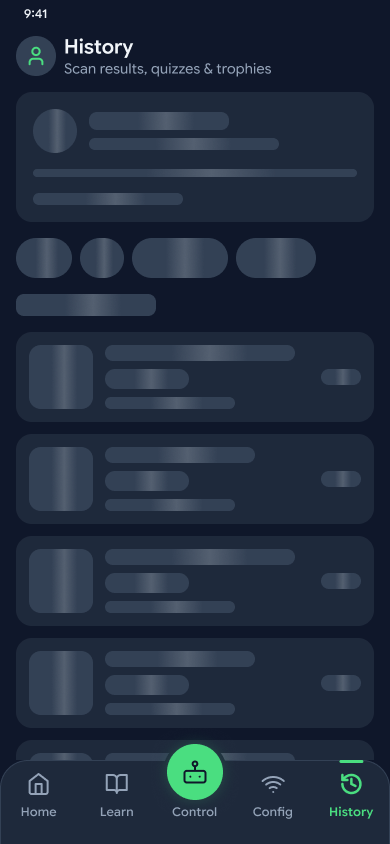
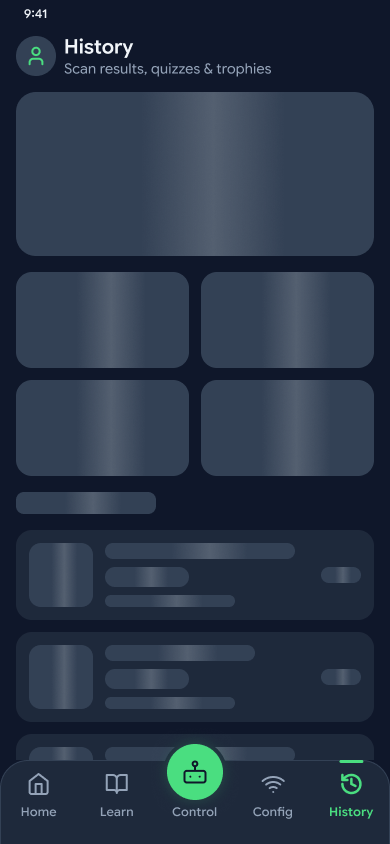
docs(design): H3 list and detail redesign (hero, tiles, stats, tabs)
Replaces the trophy summary card, filter chips and score card in the
reference images and spec with the new joyful layout.

Claude-Session: https://claude.ai/code/session_01E7CoGBaVaXvV2kEKkvcAQW

diff --git a/docs/design/h3-figma/README.md b/docs/design/h3-figma/README.md
@@ -1,15 +1,16 @@
 # H3 History: Figma reference (source of truth for the UI)
 
-Figma file `J2jSbARJSyJCStNFeWkWDj`, page "H3 History screen" (`433:2358`), exported 5 Nov 2026 at 1x
+Figma file `J2jSbARJSyJCStNFeWkWDj`, page "H3 History screen" (`433:2358`), exported 5 Nov 2026 at 1x (list and detail redesigned 14:00: trophy hero, category tiles,
+result stats, difficulty tabs)
 (390 px wide = 390 dp). Phone screenshots taken at the same dp width must match these images.
 Figma copy is English; the app shows the Indonesian strings from decision 0184.
 
 | File | Figma node (light / dark) |
 | --- | --- |
-| 01 History list | 435:2395 / 436:2987 |
-| 02 Scan detail | 435:2581 / 436:3170 |
-| 03 Loading list | 435:2781 / 436:3370 |
-| 04 Loading detail | 435:2936 / 436:3525 |
+| 01 History list | 435:2395 / 454:4480 |
+| 02 Scan detail | 435:2581 / 454:4505 |
+| 03 Loading list | 435:2781 / 454:4525 |
+| 04 Loading detail | 435:2936 / 454:4576 |
 | 05 Empty | 435:3060 / 436:3649 |
 | 06 Explanation | 439:3603 / 439:4238 |
 | 07 Explanation, reading aloud | 439:3764 / 439:4323 |
@@ -39,26 +40,48 @@ Figma copy is English; the app shows the Indonesian strings from decision 0184.
   The explanation screen has no bottom nav; it has the actions bar instead.
 
 ## Components (dp; r = corner radius; colours are ELIOS token names)
-- **Trophy summary** 358 wide, pad 16, gap 16, r16, `surface` + 1 px `border/subtle`.
-  Header row gap 12: badge 44 circle (`chip/warning-bg`, `chip/warning-border`, trophy 24 `warning/text`),
-  text column gap 2 (count Subhead `text/primary`, level Caption `text/secondary`).
-  Progress track 8 high, r full, `raised`, fill `primary/fill`.
-  Footer row space-between: "x trophies to Level n" Caption `text/secondary` + chip "Tersimpan lokal".
+- **Trophy hero** (replaces the old trophy summary card) 358x164, pad 18/20/20/20, gap 4, r20, `primary/fill`,
+  clips its content. A circle 190 `primary/fill-hover` sits behind the top-right corner (x 210, y -40).
+  Top row gap 8: "TROFI KAMU" Overline `primary/on-fill` at 72 % layer opacity + "Tersimpan lokal" pill
+  (pad 2/8/2/6, r full, `primary/fill-hover`, check 12 + Caption `primary/on-fill`).
+  Count row: total Display + "trofi" Body, both `primary/on-fill`, gap 6, baseline aligned.
+  Level line Body Small `primary/on-fill`; 8 spacer; progress 190x8 r full, track `primary/fill-hover`,
+  fill `primary/on-fill`; "x trofi lagi ke Level n" Caption `primary/on-fill` at 72 %.
+  Level art bottom-right (x 226, y 34, 120x124): Eco tree Lv3 art; use Eco sprout Lv1 art at low levels
+  (Figma components "Home art/Eco tree Lv3" 332:4411 and "Home art/Eco sprout Lv1" 332:4427).
+  Same colours in dark mode (the green block stays green).
+- **Category tiles** (replace the filter chips): 2x2 grid, gap 12, tiles fill the width (2 per row), 96 high,
+  pad 12/12/12/14, gap 2, r16, clipped. Label Body `text/primary`, count "n scan" Caption `text/secondary`.
+  Bin buddy art 52x62 at the bottom-right, partly cut by the tile edge (x = width-59, y 44):
+  B3 = "Bin buddy B3" 332:4480, Daur ulang = "Bin buddy Anorganik" 332:4466, Organik = "Bin buddy Organik" 332:4452;
+  "Semua" shows the three bins overlapping (36-40 wide). Default = `surface` + 1 px `border/subtle`.
+  Selected = `chip/success-bg` + 2 px `primary/fill`, count in `primary/text`, a 20 dp `primary/fill` circle
+  with a check 14 `primary/on-fill` at the top-right, and the art tilted 8 degrees. Tapping a tile filters the list.
+- **Day groups** in the list: "HARI INI", "KEMARIN", then a date ("3 NOV"). Overline `text/tertiary`,
+  12 above the first row of the group, groups 20 apart.
 - **Chip** (status) height 24, pad 2/8, gap 4, r full, tint bg + 1 px tint border, icon 14, text Caption.
   success = `chip/success-*` + `primary/text`; error = `chip/error-*` + `error/text`;
   warning = `chip/warning-*` + `warning/text`; info = `chip/info-*` + `info/text`; neutral = `raised` + `text/secondary`.
-- **Filter chips**: the existing Learn filter chip (height 40, r full). Selected = `primary/fill` + `primary/on-fill`;
-  default = `raised` + `text/primary`. Row gap 8.
 - **Section header**: the existing Learn section header (title Subhead, action Button `primary/text`).
 - **Scan row** 358 wide, pad 12, gap 12, r16, `surface` + `border/subtle`, centred vertically.
-  Photo 64x64 r12 `raised` (the saved crop, cover-fit; bin icon 40 only when no photo).
+  Photo 64x64 r12 tinted by category: `chip/success-bg` (daur ulang), `chip/error-bg` (B3), `chip/warning-bg`
+  (organik); the saved crop cover-fits it; bin icon 40 only when there is no photo.
   Info column gap 4: title Body `text/primary` (wraps), category chip, meta Caption `text/secondary` (wraps).
-  Right: trophy 18 + "+n" Button, both `warning/text`, gap 4. List gap 12.
-- **Scan detail**: photo 358x200 r16 `raised`; title Headline + category chip (row gap 12);
-  scan time row gap 6 (clock 16 + Caption `text/secondary`); difficulty filter chips; score card;
-  "Soal" section header with action "Ekspor PDF"; question cards gap 12.
-- **Score card** 358 wide, pad 16, gap 4, r16, `chip/warning-bg` + `chip/warning-border`, centred.
-  Trophy 28 + score Display `warning/text` (gap 8); "n dari m benar" Button `text/primary`; hint Caption `text/secondary`.
+  Right: trophy pill pad 4/10/4/8, gap 4, r full, `chip/warning-bg` + `chip/warning-border`,
+  trophy 16 + "+n" Button `warning/text`. Rows gap 12.
+- **Scan detail**: photo 358x200 r16 tinted by category (as the scan row); title Headline + category chip
+  (row gap 12); result stats; difficulty tabs; "Soal" section header with action "Ekspor PDF"; question cards gap 12.
+  No separate scan-time line and no big score card.
+- **Result stats** (replaces the score card; like the reference's rating | students | duration row):
+  358 wide, pad 12/8, r16, `surface` + `border/subtle`. Three equal columns split by 1x40 `border/subtle` lines.
+  Column: value row gap 6 (icon 18 + value Subhead `text/primary`) and label Caption `text/secondary`, centred.
+  Trofi: trophy `warning/text`, "+20". Benar: check `primary/text`, "2/3". Dipindai: clock `info/text`, "23:29".
+  Values follow the selected difficulty set.
+- **Difficulty tabs** (replace the difficulty chips; same look as the L1 "My progress" switch):
+  track 48 high, pad 4, gap 4, r full, `raised`; three equal segments 40 high r full.
+  Selected = `primary/fill`, label Button `primary/on-fill`, count badge 20 high r full `primary/fill-hover`
+  with Caption `primary/on-fill`. Others: label Button `text/secondary`, badge `surface` + Caption `text/secondary`.
+  Labels Mudah / Sedang / Sulit with the question count of each set.
 - **Question card** pad 16, gap 12, r16, `surface` + `border/subtle`.
   Header row gap 12: Q badge pad 3/10 r8 (`primary/fill` + `primary/on-fill` when right, `error/fill` + `error/on-fill` when wrong),
   question Body `text/primary`. Chips row gap 8 (Benar/Salah chip, +trophy chip).
@@ -89,6 +112,7 @@ Figma copy is English; the app shows the Indonesian strings from decision 0184.
   Handle 32x4 `border/medium`; title Subhead + Caption; file preview row pad 12 r12 `raised` (white A4 thumb 52x72);
   "SERTAKAN" Overline `text/tertiary`; option rows 48 high (checkbox 24 r4 + Body); buttons row like the actions bar
   ("Bagikan" outline with share icon, "Simpan PDF" primary with file icon).
-- **Skeleton block**: `border/medium` at 60 % with a white shimmer band (peak 16 % alpha), radii as the real element.
-  Skeleton layouts mirror the real cards (see 03, 04, 09).
+- **Skeleton block**: `border/medium` (full opacity) with a white shimmer band (peak 16 % alpha), radii as the real element.
+  Skeleton layouts mirror the real cards (see 03, 04, 09): hero block r20 164 high, 2x2 tile blocks 96 high,
+  stats block 80 high r16, tabs block 48 high r full.
 - **Empty**: illustration 240x180, title Subhead, body Body Small `text/secondary` 280 wide centred, primary pill button.
